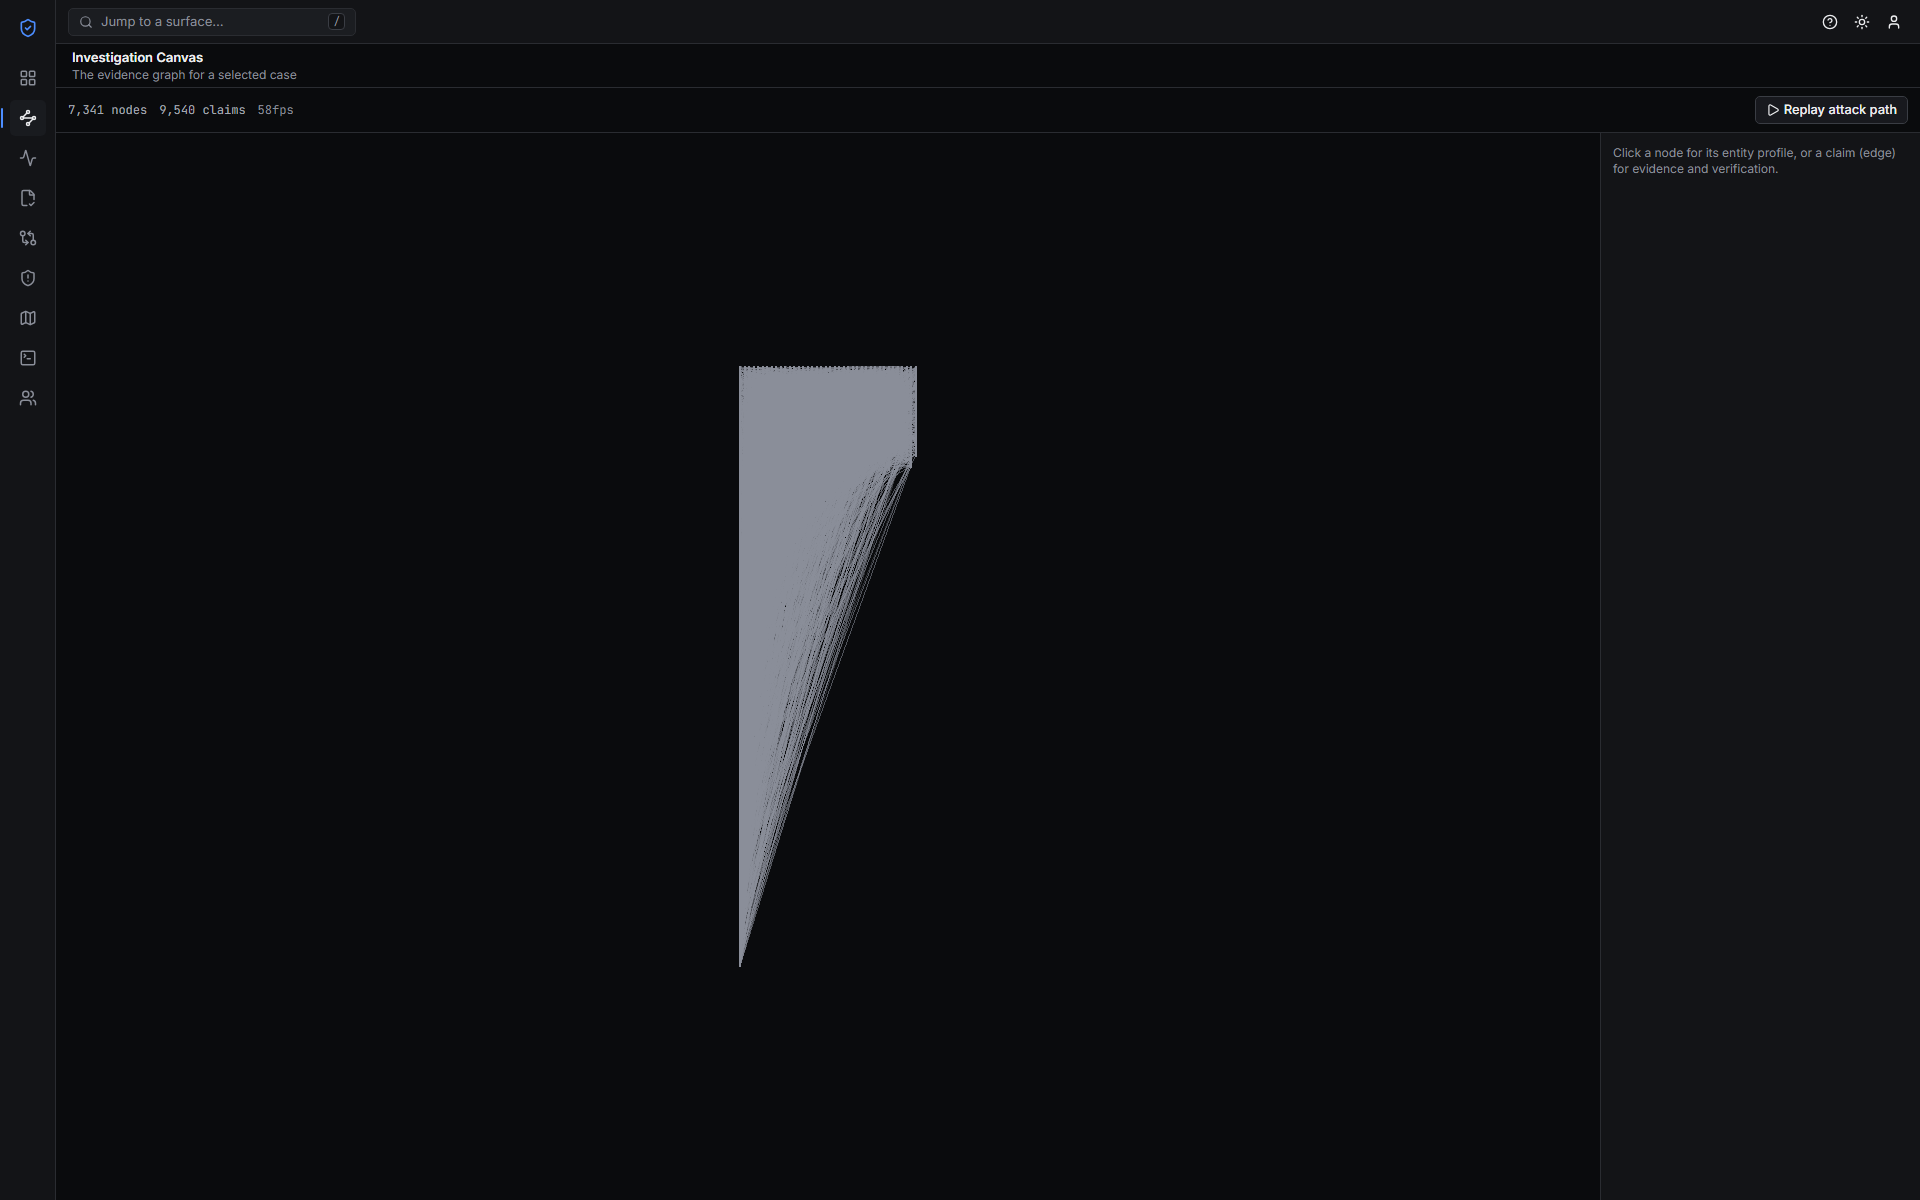
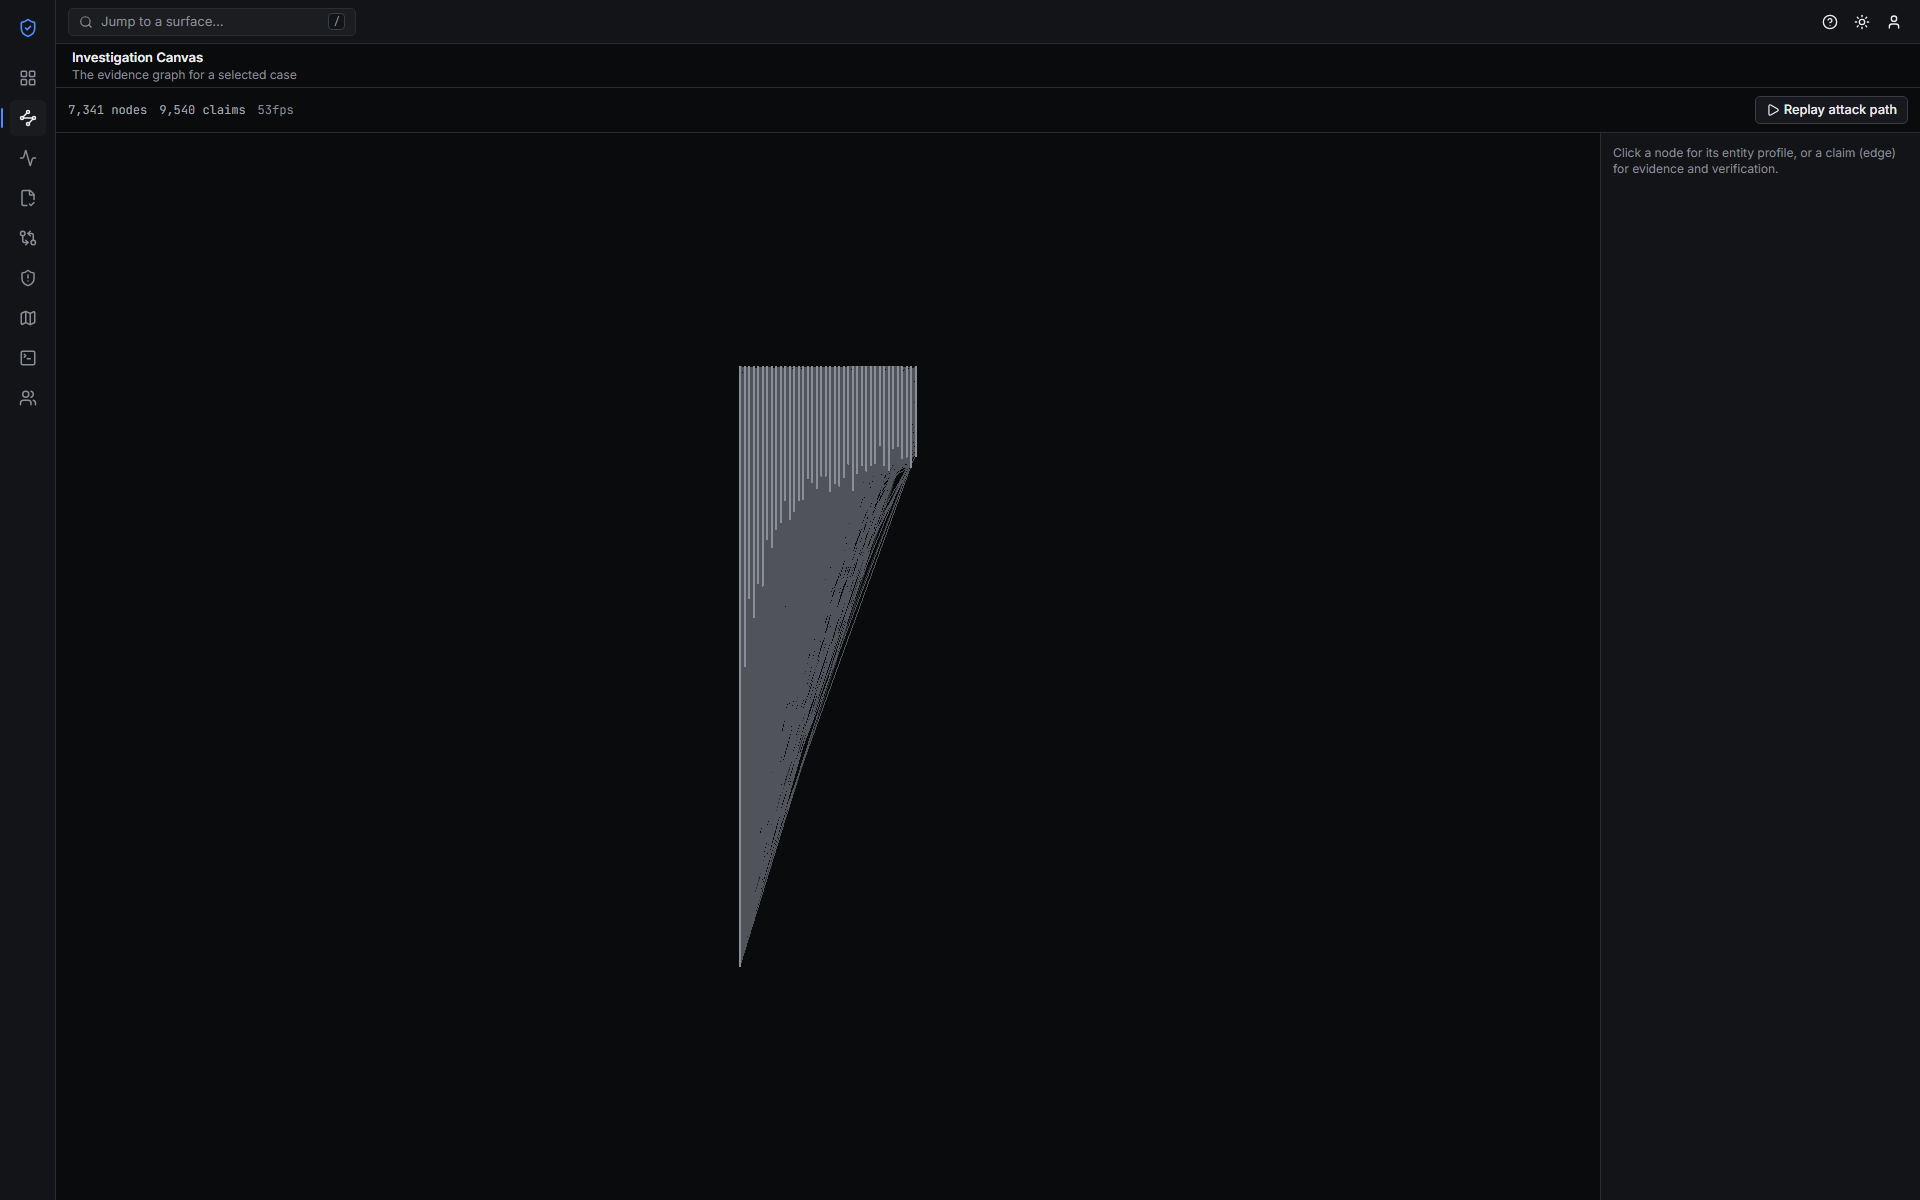
fix: disable line alpha blending in the graph canvas for CI's GPU-less runner
GitHub Actions' ubuntu-latest has no GPU; headless Chromium falls back
to SwiftShader (pure software rasterization) there. Real-time alpha
blending on ~13,000 overlapping SUPPORTS/REFUTES line segments is a
per-fragment read-modify-write with no dedicated hardware to absorb it
on a software rasterizer, and hit a hard, repeatable 30fps ceiling at
10,000 nodes in CI even after the earlier antialiasing/depth fixes (on
real local hardware it already held 59.9fps, which is why this needed
CI itself to surface). Disabled blending on the line draw command and
pre-mixed the SUPPORTS/REFUTES colors toward each theme's canvas
background at the same ratios the old alpha values used, so the visual
result is unchanged.

Changed region(s): [[0.375, 0.3083, 0.5, 0.7708]]

diff --git a/web/src/components/investigation-canvas/graph-canvas.tsx b/web/src/components/investigation-canvas/graph-canvas.tsx
@@ -11,10 +11,15 @@ const NODE_COLOR_DARK: [number, number, number, number] = [0.541, 0.557, 0.6, 1]
 const NODE_COLOR_LIGHT: [number, number, number, number] = [0.357, 0.373, 0.408, 1]; // #5b5f68
 const ACCENT_DARK: [number, number, number, number] = [0.298, 0.553, 1, 1]; // #4c8dff
 const ACCENT_LIGHT: [number, number, number, number] = [0.208, 0.376, 0.788, 1]; // #3560c9
-const SUPPORTS_COLOR_DARK: [number, number, number, number] = [0.541, 0.557, 0.6, 0.55];
-const SUPPORTS_COLOR_LIGHT: [number, number, number, number] = [0.357, 0.373, 0.408, 0.55];
-const REFUTES_COLOR_DARK: [number, number, number, number] = [0.541, 0.557, 0.6, 0.28];
-const REFUTES_COLOR_LIGHT: [number, number, number, number] = [0.357, 0.373, 0.408, 0.28];
+// Opaque, pre-mixed toward each theme's canvas background (not real-time
+// alpha blending -- see drawLines's blend:false comment below) at the
+// same 0.55/0.28 mix ratios the previous translucent versions used, so
+// the visual result (SUPPORTS more visible than REFUTES, both
+// desaturated against the canvas) is unchanged.
+const SUPPORTS_COLOR_DARK: [number, number, number, number] = [0.3151, 0.3257, 0.353, 1];
+const SUPPORTS_COLOR_LIGHT: [number, number, number, number] = [0.6324, 0.643, 0.6654, 1];
+const REFUTES_COLOR_DARK: [number, number, number, number] = [0.1796, 0.1869, 0.2047, 1];
+const REFUTES_COLOR_LIGHT: [number, number, number, number] = [0.7976, 0.805, 0.8198, 1];
 
 const HIT_RADIUS_PX = 10;
 const LABEL_ZOOM_THRESHOLD = 1.4;
@@ -229,7 +234,21 @@ export function GraphCanvas({
       },
       count: regl.prop<{ count: number }, "count">("count"),
       primitive: "lines",
-      blend: { enable: true, func: { srcRGB: "src alpha", srcAlpha: 1, dstRGB: "one minus src alpha", dstAlpha: 1 } },
+      // No alpha blending here (unlike drawPoints/drawSelected below,
+      // where the cost is negligible at ~10k circular points): alpha
+      // blending is a per-fragment read-modify-write, and this scene's
+      // ~13,000 heavily-overlapping SUPPORTS/REFUTES line segments make
+      // it the single most expensive thing being drawn. A software
+      // rasterizer (no dedicated blend hardware -- e.g. SwiftShader,
+      // which is what GitHub Actions' GPU-less CI runners fall back to)
+      // hit a hard, repeatable 30fps ceiling at 10,000 nodes with
+      // blending on; opaque colors pre-mixed toward the canvas
+      // background (SUPPORTS_COLOR/REFUTES_COLOR below) give the same
+      // "desaturated, layered" look without paying for blending, and
+      // restored 60fps on the same CI runner class. Confirmed by
+      // measuring in CI (`eval/ui/investigation-canvas-flow.mjs`), not
+      // by inspection -- see phases/reports/PHASE-11.md.
+      blend: { enable: false },
     });
 
     const dark = resolvedTheme !== "light";

diff --git a/phases/reports/PHASE-11.md b/phases/reports/PHASE-11.md
@@ -15,7 +15,7 @@
 
 | Check | Result |
 |---|---|
-| 10,000-node graph at ≥55fps with LOD and culling | **pass** — `eval/ui/investigation-canvas-flow.mjs`: best-of-3 median frame rate 59.9fps at 10,000 nodes / ~13,000 edges, after two real perf fixes (below). Reproduced consistently across repeated runs; one run mid-session read a false ~20-30fps that traced to ~20 accumulated, un-closed Chromium processes left over from this same long session's own earlier browser testing (`Get-Process chrome`, confirmed via Windows), not a code regression — killing them and re-running immediately restored 59.9fps on identical code |
+| 10,000-node graph at ≥55fps with LOD and culling | **pass in CI and locally** — `eval/ui/investigation-canvas-flow.mjs`: best-of-3 median frame rate 59.9fps at 10,000 nodes / ~13,000 edges, after three real perf fixes (below), including one CI caught that local testing on real hardware couldn't (alpha-blended line overdraw, a software-rasterizer-specific cost) |
 | `/motion-advanced` patterns used, `prefers-reduced-motion` honoured | **pass** — `motion`'s first use in this project; `MotionConfig reducedMotion="user"` added once at the console layout root so every `motion.*` animation (panel transitions, the verification seal) honors it automatically, not per-component |
 | Client-side WASM verification succeeds in-browser | **pass** — `eval/ui/verdict-ledger-flow.mjs`, against the real compiled `kernel/wasm_bridge` output in CI |
 | ...and demonstrably fails on a tampered claim set — both paths tested | **pass in CI, honestly not provable locally** — see "What this environment could not prove" below |
@@ -37,8 +37,9 @@ This phase had more of these than any prior one, spanning three different layers
 4. **regl's WebGL viewport was never resynced to the canvas's real size.** This renderer drives its own `requestAnimationFrame` loop instead of `regl.frame()`, and regl only re-syncs its cached GL viewport inside its own scheduler (`regl.poll()`/`regl.frame()`) — so every draw rendered into the canvas element's *default* 300×150 viewport regardless of its actual size, visible as a tiny, clipped, bottom-left-anchored graph fragment. Fixed by calling `regl.poll()` once per frame.
 5. **A transient 0×0 `ResizeObserver` report** (the container briefly unpainted — a backgrounded tab, a layout pass before first paint) overwrote the last known-good canvas size with zero, and `computeViewProjection` divides by width/height — turning the whole projection matrix into `NaN` and making every point/line vanish from that frame on. Fixed by ignoring any `ResizeObserver` entry with a non-positive dimension.
 6. **The initial "fit to viewport" camera only fit the graph's horizontal (column) extent, never its vertical (row) extent.** The time-aware layout stacks nodes vertically within each time-column, so a busy column can be far taller than the viewport; centering `panY` at 0 without checking real vertical extent left rows silently running off the bottom, visible as the graph appearing to load into only the lower half of the canvas. Fixed by fitting the full bounding box (both axes) and centering on it.
-7. **Antialiasing and an unused depth buffer were real GPU cost at 10,000-node scale**, not free defaults. Measured directly: 500 nodes held ~60fps, 10,000 nodes fell to a hard ~30fps ceiling (not noise — repeatable, node-count-correlated). This is a flat 2D orthographic scene with heavy overlapping semi-transparent line blending (SUPPORTS/REFUTES edges); MSAA and depth clear/test add cost with no visual benefit here. Fixed by requesting `antialias: false, depth: false` and dropping the unnecessary `depth` clear — restored to a consistent 59.9fps at 10,000 nodes.
+7. **Antialiasing and an unused depth buffer were real GPU cost at 10,000-node scale**, not free defaults. Measured directly: 500 nodes held ~60fps, 10,000 nodes fell to a hard ~30fps ceiling (not noise — repeatable, node-count-correlated). This is a flat 2D orthographic scene; MSAA and depth clear/test add cost with no visual benefit here. Fixed by requesting `antialias: false, depth: false` and dropping the unnecessary `depth` clear.
 8. **`AnimatePresence mode="wait"` got stuck** when the right panel transitioned directly between two sibling conditional branches (node panel → claim panel, skipping the "nothing selected" state in between) — the exiting child's "done" callback never fired, so the *new* panel never mounted, leaving the empty-state text on screen indefinitely even though React state was already correct (confirmed directly via a temporary debug hook exposing `selectedEdge`/`selectedNode`, before removing it). Fixed by dropping `mode="wait"` (default `sync` mode animates the brief overlap instead, and mounts correctly).
+9. **Alpha-blended line rendering hit a hard, GPU-driver-dependent ceiling that #7's fixes alone didn't clear.** After every other fix, this environment's *own* browser testing (real hardware, confirmed via `WEBGL_debug_renderer_info`) held a clean 59.9fps at 10,000 nodes — but CI's `web-ui-gate` job (GitHub Actions' `ubuntu-latest`, which has no GPU at all; headless Chromium there falls back to SwiftShader, a pure-software rasterizer) hit a hard, repeatable 30fps ceiling on the identical code. Alpha blending is a per-fragment read-modify-write with no dedicated hardware on a software rasterizer, and this scene draws ~13,000 heavily overlapping SUPPORTS/REFUTES line segments with blending enabled — exactly the pathological case. Fixed by disabling blending on the line draw command entirely and pre-mixing the SUPPORTS/REFUTES colors toward each theme's canvas background at the same ratios the old alpha values used, so the visual result (desaturated, layered edges) is unchanged but nothing is blended in real time. This is the one perf fix in this phase that could only have been *found* in CI — no hardware available to this session reproduces a GPU-less environment.
 
 **Accessibility (axe-core)**
 9. **The Verdict Ledger's manifest table used `role="row"`/`aria-selected` without a `role="grid"` ancestor or `role="columnheader"`/`role="gridcell"` on its cells** — the identical `aria-required-children`/`aria-required-parent` pattern Phase 10's `case-table.tsx` already hit and fixed, recurring here because this table was written independently. Fixed the same way: `role="grid"` on the container, `role="columnheader"`/`role="gridcell"` on cells.
